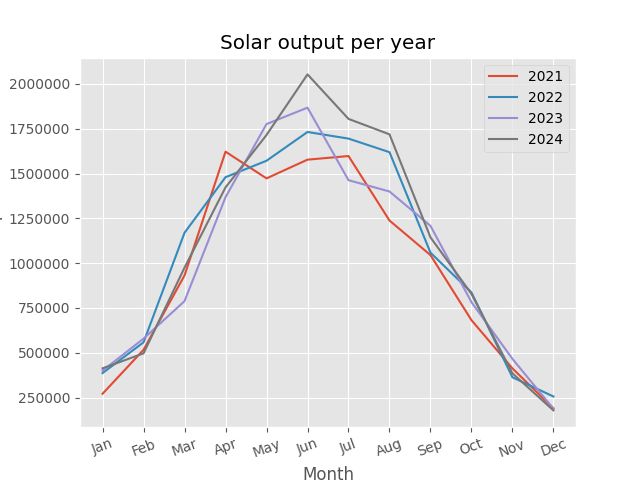
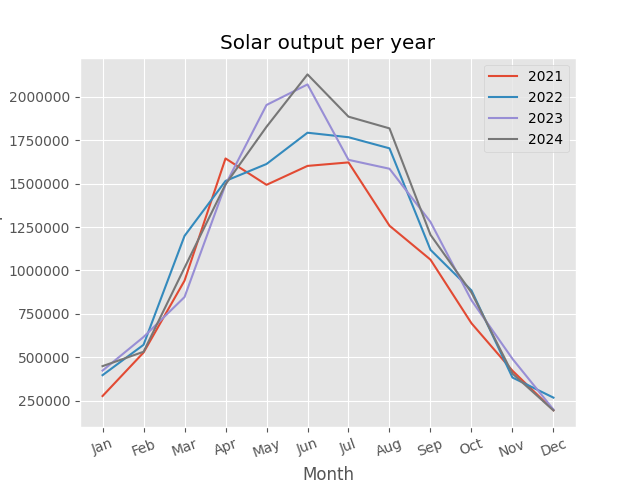
check solar data now adds any missing dates in db

diff --git a/envstats/stats.py b/envstats/stats.py
@@ -126,19 +126,25 @@ def solarstats():
 
 # for running from command line. only retrieves solar data from api
 # for those days with no data. by default check the last 30 days
-def add_historic():
+def add_historic(start_date = None):
     pvl = PVLive()
     def daterange(start_date, end_date):
         for n in range(int((end_date - start_date).days)):
             yield start_date + timedelta(n)
 
-    start_date = date(2023, 7, 1)
-    end_date = date(2023, 8, 1)
-    end_date = date.today()  
-    start_date = (date.today()-timedelta(days=30))
+    # if we were passed a date just process for that date
+    if start_date:
+        end_date = (start_date+timedelta(days=1))  
+    else:   
+        #otherwise process for last 35 days
+        start_date = date(2023, 7, 1)
+        end_date = date(2023, 8, 1)
+        end_date = date.today()  
+        start_date = (date.today()-timedelta(days=35))
     for single_date in daterange(start_date, end_date):
         # check if we have stats already...
         # TODO this should only be one query not one for each date!
+        print ("checking " + str(single_date))
         checksql = "SELECT * from solar where date = %s;"
         existingdata = query_db(checksql, (single_date,))
         # if we have this date in the database (and hence a non empty list) we don't need to fetch
@@ -158,15 +164,15 @@ def add_historic():
     create_solar_chart1(df)
     create_solar_chart2(df)
 
-# command line function to check historic values and TODO update the db
+# command line function to check historic values 
 def check_historic():
     pvl = PVLive()
     def daterange(start_date, end_date):
         for n in range(int((end_date - start_date).days)):
             yield start_date + timedelta(n)
 
-    start_date = date(2024, 1, 1)
-    end_date = date(2024, 12, 1)
+    start_date = date(2023, 12, 29)
+    end_date = date(2024, 1, 5)
     #end_date = date.today()  
     #start_date = (date.today()-timedelta(days=30))
     for single_date in daterange(start_date, end_date):
@@ -199,8 +205,8 @@ def check_historic():
                 query_db(updatesql, (daysolartotal,existingsolarid))
             time.sleep(1)
         else:
-            # todo run add histric on this date 
             print("not in db: ", single_date )
+            add_historic(single_date)
 
 
 
